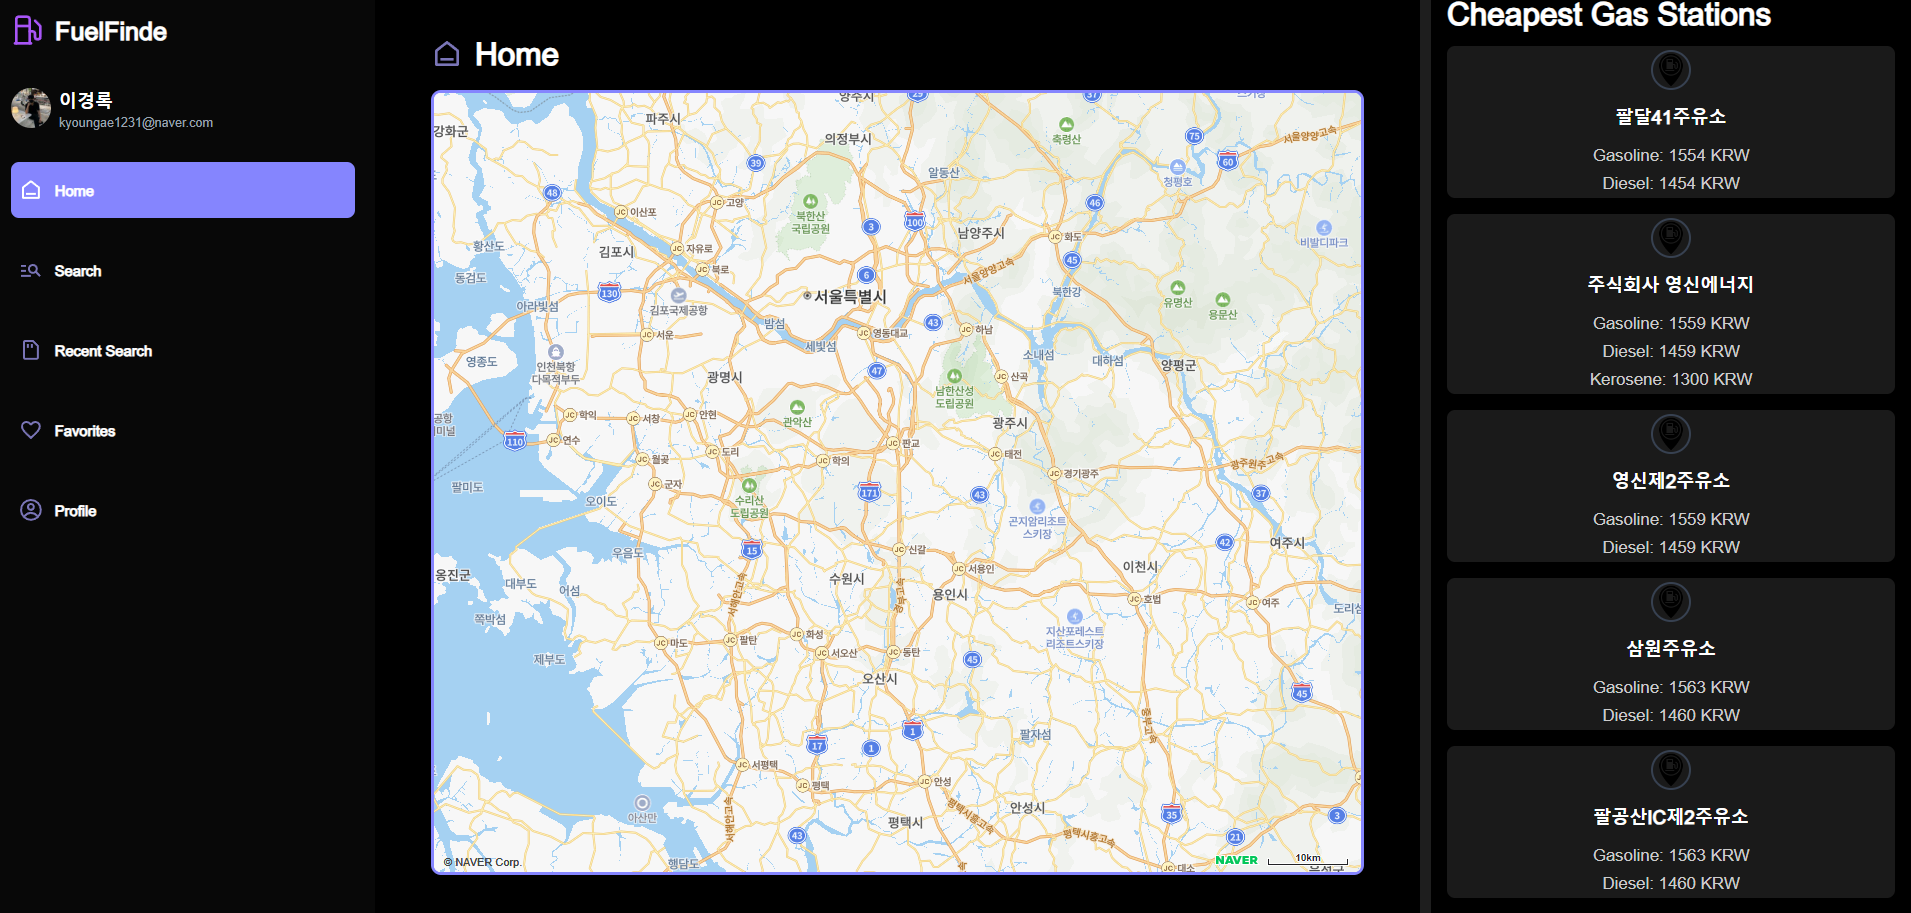
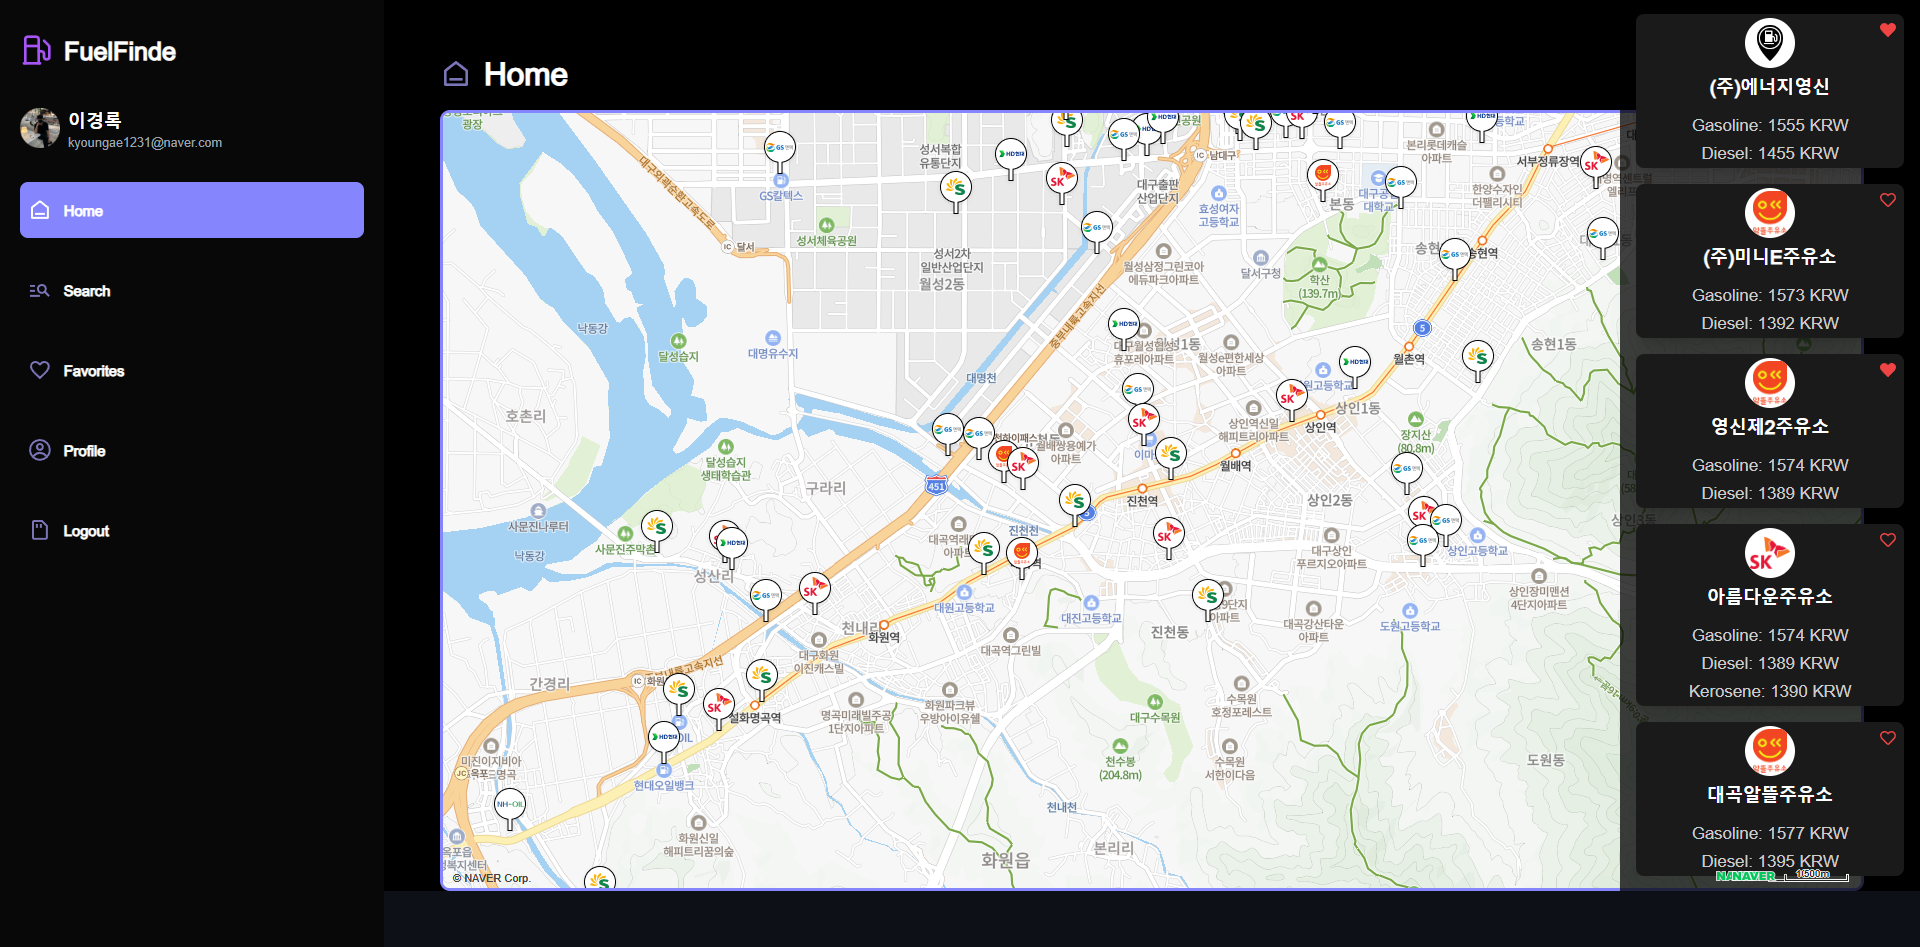
[Next.js + express] - 오류 수정

diff --git a/frontend/components/shared/CheapestCard.jsx b/frontend/components/shared/CheapestCard.jsx
@@ -1,34 +1,30 @@
 import React, { useState, useEffect } from 'react';
-import { FaHeart, FaRegHeart } from 'react-icons/fa'; // 빈 하트와 채워진 하트 아이콘
-import { AddFavoriteStation, RemoveFavoriteStation } from '@/handlers/UserHandlers'; // 관심 주유소 추가/삭제를 처리하는 함수
+import { FaHeart, FaRegHeart } from 'react-icons/fa';
+import { AddFavoriteStation, RemoveFavoriteStation } from '@/handlers/UserHandlers';
 
 function CheapestCard({ station, favorites }) {
   const [isFavorited, setIsFavorited] = useState(false);
 
-  // 컴포넌트가 마운트될 때 관심 주유소 여부를 결정합니다.
   useEffect(() => {
-    if (favorites) {
-      const isFavorite = favorites.some(favoriteItem => favoriteItem.favorite.station_id === station.id);
-      setIsFavorited(isFavorite);
-    }
+    // 즐겨찾기 여부를 초기화합니다.
+    const isFavorite = favorites.some(favoriteItem => favoriteItem.favorite.station_id === station.id);
+    setIsFavorited(isFavorite);
   }, [favorites, station.id]);
 
   const toggleFavorite = () => {
     if (isFavorited) {
-      // 이미 관심 주유소로 등록된 경우, 관심 주유소를 삭제합니다.
       RemoveFavoriteStation(station.id)
         .then(() => {
-          setIsFavorited(false); // 상태 업데이트를 성공적으로 수행한 후에만 UI 상태를 변경합니다.
+          setIsFavorited(false);
           console.log('Successfully removed from favorites.');
         })
         .catch((error) => {
           console.error('Error removing favorite station:', error);
         });
     } else {
-      // 관심 주유소로 등록되지 않은 경우, 관심 주유소를 추가합니다.
       AddFavoriteStation(station.id)
         .then(() => {
-          setIsFavorited(true); // 상태 업데이트를 성공적으로 수행한 후에만 UI 상태를 변경합니다.
+          setIsFavorited(true);
           console.log('Successfully added to favorites.');
         })
         .catch((error) => {

diff --git a/frontend/components/search.jsx b/frontend/components/search.jsx
@@ -7,6 +7,7 @@ import { BiMemoryCard } from 'react-icons/bi';
 import { MdFavoriteBorder } from 'react-icons/md';
 import { CgProfile } from 'react-icons/cg';
 import { fetchSearchResults } from '../handlers/SearchHandlers';
+import { FavoriteStation } from '../handlers/UserHandlers';
 import SearchCard from './shared/SearchCard';
 
 export function Search() {
@@ -19,7 +20,13 @@ export function Search() {
     if (userData) {
       setUser(JSON.parse(userData));
     }
+    FavoriteStation().then(response => {
+      setFavorites(response.data);
+    }).catch(error => {
+      console.error('Error fetching favorite stations:', error);
+    });
   }, []);
+
 
   const handleSearch = async (event) => {
     const query = event.target.value;

diff --git a/frontend/pages/main.js b/frontend/pages/main.js
@@ -7,10 +7,10 @@ export default function Home({ user, stations, markers, favorites}) {
     if (user) {
       localStorage.setItem('user', JSON.stringify(user));
     }
-    if (stations) {
-      localStorage.setItem('stations', JSON.stringify(stations));
+    if (markers) {
+      localStorage.setItem('markers', JSON.stringify(markers));
     }
-  }, [user, stations]);
+  }, [user, markers]);
 
   return (
     <div>

diff --git a/frontend/components/join.jsx b/frontend/components/join.jsx
@@ -3,7 +3,7 @@ import Link from "next/link"
 import { CardTitle, CardHeader, CardContent, Card } from "@/components/ui/card"
 import { Input } from "@/components/ui/input"
 import { Button } from "@/components/ui/button"
-import { joinSubmit } from "@/handlers/joinHandlers"
+import { joinSubmit } from "@/handlers/JoinHandlers"
 
 export function Join() {
   const [nick, setNickname] = useState('');

diff --git a/frontend/components/favorites.jsx b/frontend/components/favorites.jsx
@@ -19,7 +19,7 @@ function FavoritesComponent() {
       setUser(JSON.parse(userData));
     }
 
-    const stationsData = localStorage.getItem('stations');
+    const stationsData = localStorage.getItem('markers');
     if (stationsData) {
       setStations(JSON.parse(stationsData));
     }

diff --git a/backend/controller/page.js b/backend/controller/page.js
@@ -32,7 +32,7 @@ exports.MarkerStation = async (req, res, next) => {
       include: [{
         model: Brand,
         as: 'Brand',
-        attributes: ['marker_img']
+        attributes: ['img', 'marker_img']
       }],
     });
     res.json(markers);

diff --git a/frontend/pages/recent_search.js b/frontend/pages/recent_search.js
@@ -1,4 +1,4 @@
-import Recent_searchComponent from '../components/recent_searches';
+import Recent_searchComponent from '../components/Recent_searches';
 
 export default function Recent_search() {
     return (

diff --git a/frontend/pages/favorites.js b/frontend/pages/favorites.js
@@ -1,4 +1,4 @@
-import FavoritesComponent from '../components/favorites';
+import FavoritesComponent from '../components/Favorites';
 
 export default function Favorites() {
   return (

diff --git a/frontend/pages/profile.js b/frontend/pages/profile.js
@@ -1,4 +1,4 @@
-import ProfileComponent from '../components/profile';
+import ProfileComponent from '../components/Profile';
 
 export default function Profile() {
     return (

diff --git a/frontend/pages/search.js b/frontend/pages/search.js
@@ -1,4 +1,4 @@
-import SearchComponent from '../components/search';
+import SearchComponent from '../components/Search';
 
 export default function Search() {
   return (

diff --git a/frontend/pages/index.js b/frontend/pages/index.js
@@ -1,4 +1,4 @@
-import LoginComponent from '../components/login';
+import LoginComponent from '../components/Login';
 
 export default function Login() {
   return (

diff --git a/frontend/pages/join.js b/frontend/pages/join.js
@@ -1,4 +1,4 @@
-import JoinComponent from '../components/join';
+import JoinComponent from '../components/Join';
 
 export default function Join() {
   return (
